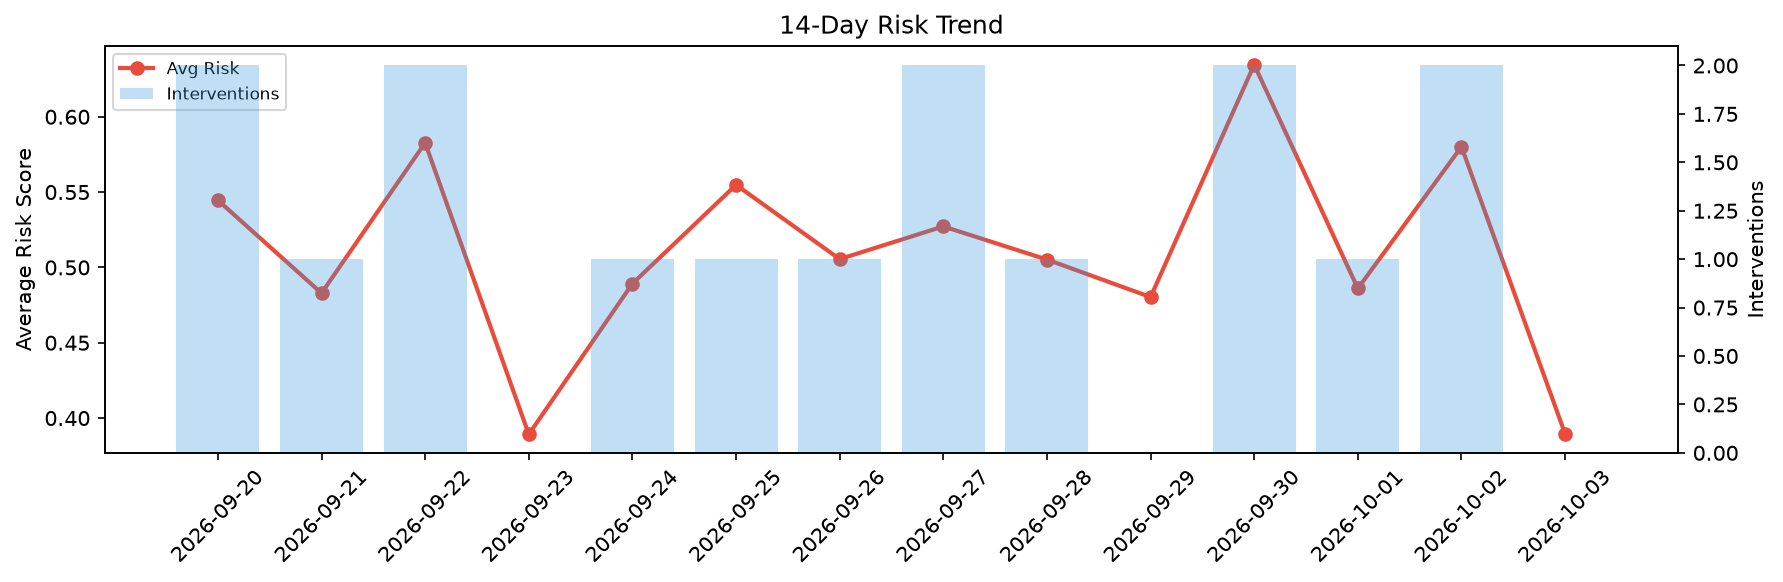
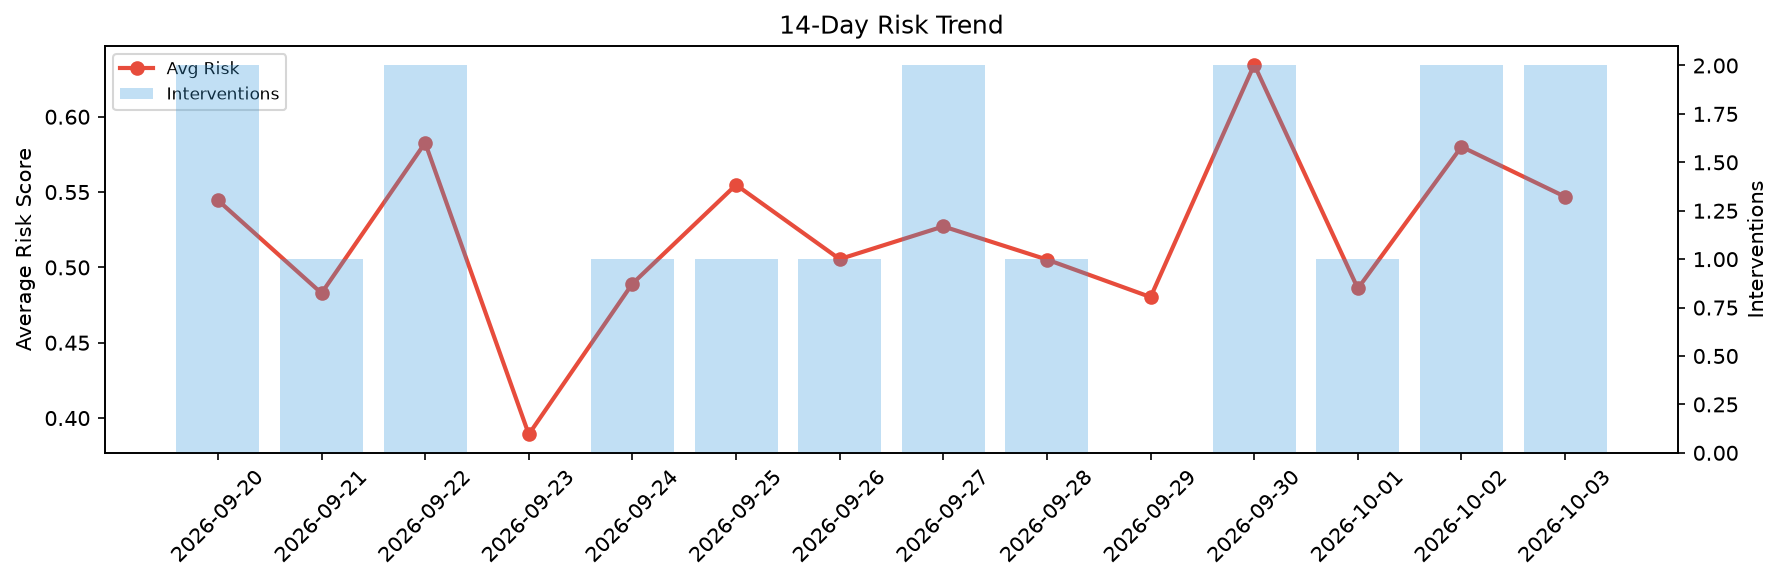
agent-improvement: daily cycle 2026-10-03T17:57

Changed region(s): [[0.802, 0.0928, 0.9254, 0.8041]]

diff --git a/logs/2026-10-03.md b/logs/2026-10-03.md
@@ -1,6 +1,6 @@
 # Agent Improvement Report — 2026-10-03
 
-**Cycle ID:** `79e0a057` | **Avg Risk:** 0.3895 | **Interventions:** 0/4
+**Cycle ID:** `ff05feda` | **Avg Risk:** 0.5469 | **Interventions:** 2/4
 
 ![Dashboard](2026-10-03_dashboard.png)
 
@@ -10,18 +10,18 @@
 
 | Domain | Risk Score | Decision | Alerts |
 |--------|-----------|----------|--------|
-| code_review | 0.3867 | monitor | none |
-| incident_response | 0.516 | monitor | severity |
-| data_pipeline | 0.2304 | monitor | none |
-| deployment | 0.4249 | monitor | rollback_rate |
+| code_review | 0.7482 | intervene | duplication |
+| incident_response | 0.3078 | monitor | none |
+| data_pipeline | 0.3827 | monitor | schema_drift |
+| deployment | 0.749 | intervene | canary_error, latency_p99 |
 
 ## Delta vs Yesterday
 
 | Domain | Today | Yesterday | Change |
 |--------|-------|-----------|--------|
-| code_review | 0.3867 | 0.7279 | 📉 -46.9% |
-| incident_response | 0.516 | 0.5574 | 📉 -7.4% |
-| data_pipeline | 0.2304 | 0.6619 | 📉 -65.2% |
-| deployment | 0.4249 | 0.3732 | 📈 13.9% |
+| code_review | 0.7482 | 0.7279 | 📈 2.8% |
+| incident_response | 0.3078 | 0.5574 | 📉 -44.8% |
+| data_pipeline | 0.3827 | 0.6619 | 📉 -42.2% |
+| deployment | 0.749 | 0.3732 | 📈 100.7% |
 
 **Refinement:** `{'adjustment': 'tighten_thresholds', 'trend': 'degrading', 'window': 4}`
